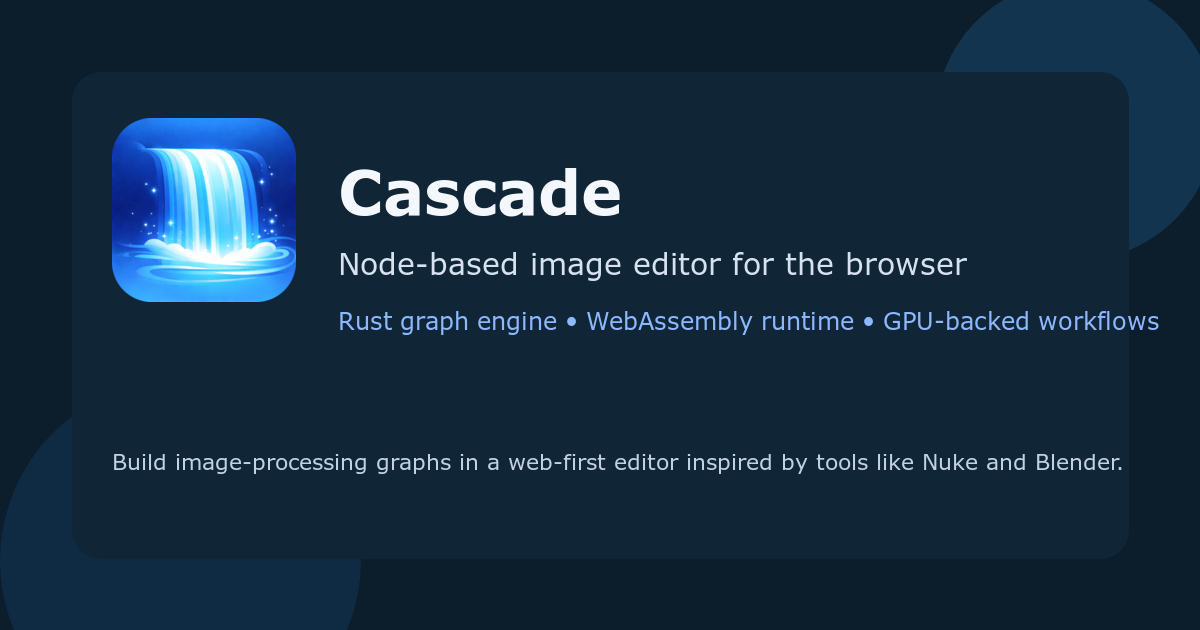
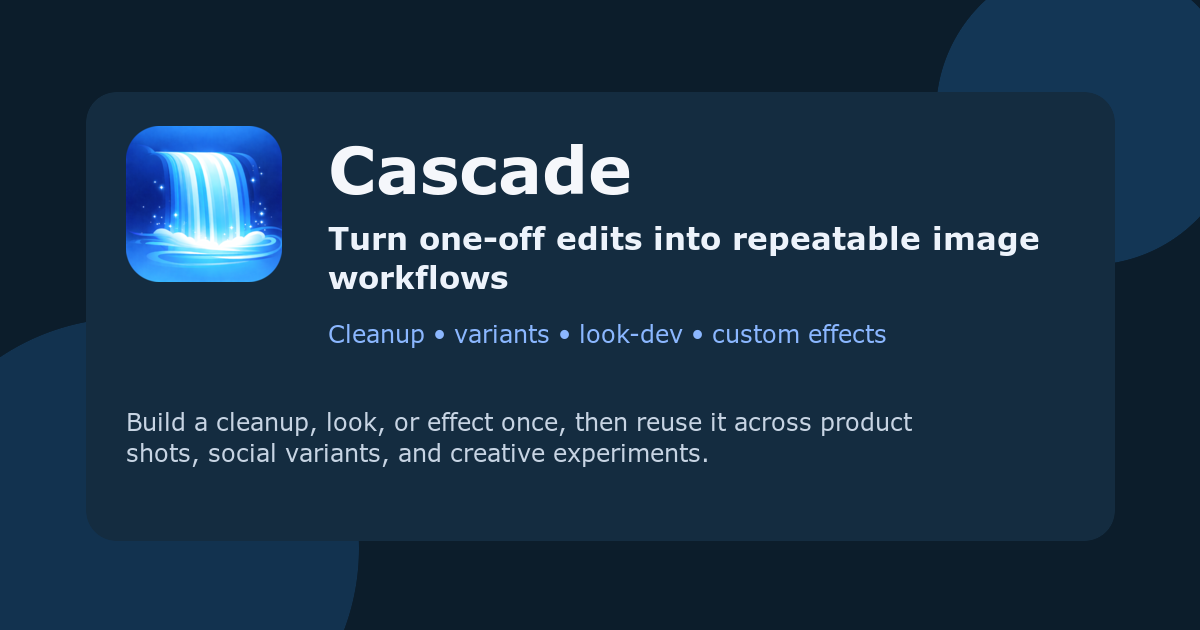
refactor: polish seo messaging and social card

diff --git a/apps/web/index.html b/apps/web/index.html
@@ -4,14 +4,14 @@
     <meta charset="UTF-8" />
     <meta name="viewport" content="width=device-width, initial-scale=1.0" />
 
-    <title>Cascade | Node-Based Image Editor for the Browser</title>
+    <title>Cascade | Repeatable Image Workflows in Your Browser</title>
     <meta
       name="description"
-      content="Cascade is a web-first node-based image editor for compositing and image processing, powered by a Rust graph engine, WebAssembly, GPU kernels, and optional desktop builds."
+      content="Cascade helps you turn one-off image edits into repeatable workflows for cleanup, variants, look-dev, and custom effects right in the browser."
     />
     <meta
       name="keywords"
-      content="node-based image editor, browser image editor, compositing, image processing, Rust, WebAssembly, GPU kernels, visual graph editor"
+      content="repeatable image workflows, browser image editor, product photo workflow, social image variants, visual image pipeline, custom image effects"
     />
     <meta name="author" content="Cascade" />
     <meta name="application-name" content="Cascade" />
@@ -27,10 +27,10 @@
     <meta property="og:url" content="https://cascade-editor.pages.dev/" />
     <meta property="og:site_name" content="Cascade" />
     <meta property="og:locale" content="en_US" />
-    <meta property="og:title" content="Cascade | Node-Based Image Editor for the Browser" />
+    <meta property="og:title" content="Cascade | Repeatable Image Workflows in Your Browser" />
     <meta
       property="og:description"
-      content="Build image-processing graphs in a web-first editor powered by Rust, WebAssembly, and GPU-accelerated execution paths."
+      content="Turn one-off image edits into repeatable workflows for cleanup, variants, look-dev, and custom effects."
     />
     <meta property="og:image" content="https://cascade-editor.pages.dev/og-image.png" />
     <meta property="og:image:width" content="1200" />
@@ -39,10 +39,10 @@
 
     <!-- Twitter Card -->
     <meta name="twitter:card" content="summary_large_image" />
-    <meta name="twitter:title" content="Cascade | Node-Based Image Editor for the Browser" />
+    <meta name="twitter:title" content="Cascade | Repeatable Image Workflows in Your Browser" />
     <meta
       name="twitter:description"
-      content="Build image-processing graphs in a web-first editor powered by Rust, WebAssembly, and GPU-accelerated execution paths."
+      content="Turn one-off image edits into repeatable workflows for cleanup, variants, look-dev, and custom effects."
     />
     <meta name="twitter:image" content="https://cascade-editor.pages.dev/og-image.png" />
     <meta name="twitter:image:alt" content="Cascade node-based image editor preview card" />
@@ -60,10 +60,10 @@
         "@type": "SoftwareApplication",
         "name": "Cascade",
         "applicationCategory": "MultimediaApplication",
-        "applicationSubCategory": "Node-based image editor",
+        "applicationSubCategory": "Image workflow editor",
         "operatingSystem": "Web Browser, macOS",
         "softwareVersion": "0.1.0",
-        "description": "Cascade is a web-first node-based image editor for compositing and image processing, powered by a Rust graph engine, WebAssembly, GPU kernels, and optional desktop builds.",
+        "description": "Cascade helps you turn one-off image edits into repeatable workflows for cleanup, variants, look-dev, and custom effects right in the browser.",
         "url": "https://cascade-editor.pages.dev/",
         "image": "https://cascade-editor.pages.dev/og-image.png",
         "screenshot": "https://cascade-editor.pages.dev/og-image.png",
@@ -79,11 +79,10 @@
           "https://github.com/zacharyfmarion/cascade"
         ],
         "featureList": [
-          "Typed node-graph image processing workflows",
-          "Rust graph engine shared by web and desktop frontends",
-          "WebAssembly-powered browser runtime",
-          "GPU-backed execution paths where available",
-          "Still-image workflows, playback-oriented nodes, and scripted GPU kernels"
+          "Turn one-off image edits into repeatable workflows",
+          "Reuse pipelines for cleanup, variants, look-dev, and custom effects",
+          "Build visually in the browser and iterate quickly",
+          "Extend workflows with AI-assisted graph editing and custom GPU effects"
         ]
       }
     </script>
@@ -193,25 +192,24 @@
     <div id="root">
       <main class="seo-shell">
         <p class="seo-shell__eyebrow">Cascade</p>
-        <h1>Node-based image editing for the browser.</h1>
+        <h1>Create repeatable image workflows in your browser.</h1>
         <p class="seo-shell__lede">
-          Cascade is a web-first image editor for building compositing and image-processing workflows as typed node
-          graphs. It combines a Rust core, WebAssembly runtime, GPU-backed execution paths, and a desktop shell that
-          shares the same engine.
+          Turn a cleanup, look, or effect into a reusable workflow you can tweak, rerun, and adapt across product
+          shots, social variants, creative experiments, and custom image treatments.
         </p>
 
         <div class="seo-shell__grid">
           <section class="seo-shell__card" aria-labelledby="seo-feature-1">
-            <h2 id="seo-feature-1">Built for graph-based workflows</h2>
-            <p>Assemble still-image pipelines visually, connect typed nodes, and iterate on non-linear image-processing graphs.</p>
+            <h2 id="seo-feature-1">Move beyond one-off edits</h2>
+            <p>Build a visual workflow once, then reuse it instead of repeating the same sequence of manual steps every time.</p>
           </section>
           <section class="seo-shell__card" aria-labelledby="seo-feature-2">
-            <h2 id="seo-feature-2">Rust engine, browser runtime</h2>
-            <p>The core evaluator is written in Rust and runs in the browser through WebAssembly, with desktop support on the roadmap.</p>
+            <h2 id="seo-feature-2">Faster to explore and compare</h2>
+            <p>Swap inputs, tweak parameters, and compare looks without rebuilding your edit from scratch for every new image.</p>
           </section>
           <section class="seo-shell__card" aria-labelledby="seo-feature-3">
-            <h2 id="seo-feature-3">GPU and scripting support</h2>
-            <p>Use GPU-backed execution paths where available, plus scripted GPU kernels for advanced processing workflows.</p>
+            <h2 id="seo-feature-3">Flexible when you need something custom</h2>
+            <p>Start with built-in tools, then layer in AI-assisted graph editing and custom effects when off-the-shelf controls are not enough.</p>
           </section>
         </div>
 
@@ -219,9 +217,9 @@
           <h2 id="seo-capabilities">Core capabilities</h2>
           <ul class="seo-shell__list">
             <li>Typed node graphs for image processing and compositing</li>
-            <li>Web-first editing with optional desktop builds</li>
-            <li>Still-image workflows, playback-oriented nodes, and AI-assisted tooling</li>
-            <li>Open-source codebase powered by Rust, React, and WebAssembly</li>
+            <li>Reusable workflows for cleanup, look-dev, and image variants</li>
+            <li>Browser-first editing with an optional desktop app</li>
+            <li>Built-in tools plus AI-assisted workflow creation and custom effects</li>
           </ul>
         </section>
 

diff --git a/apps/web/src/__tests__/seo.test.ts b/apps/web/src/__tests__/seo.test.ts
@@ -22,7 +22,7 @@ describe('static SEO surface', () => {
   it('ships a production-ready head in index.html', () => {
     const html = readWebFile('index.html');
 
-    expect(html).toContain('<title>Cascade | Node-Based Image Editor for the Browser</title>');
+    expect(html).toContain('<title>Cascade | Repeatable Image Workflows in Your Browser</title>');
     expect(html).toMatch(/<meta\s+name="description"/);
     expect(html).toContain('<link rel="canonical" href="https://cascade-editor.pages.dev/" />');
     expect(html).toContain('max-image-preview:large');
@@ -30,7 +30,7 @@ describe('static SEO surface', () => {
     expect(html).toContain('<meta property="og:image" content="https://cascade-editor.pages.dev/og-image.png" />');
     expect(html).toContain('<meta name="twitter:card" content="summary_large_image" />');
     expect(html).toContain('<link rel="manifest" href="/site.webmanifest" />');
-    expect(html).toContain('<h1>Node-based image editing for the browser.</h1>');
+    expect(html).toContain('<h1>Create repeatable image workflows in your browser.</h1>');
     expect(html).toContain('JavaScript powers the full interactive editor');
   });
 